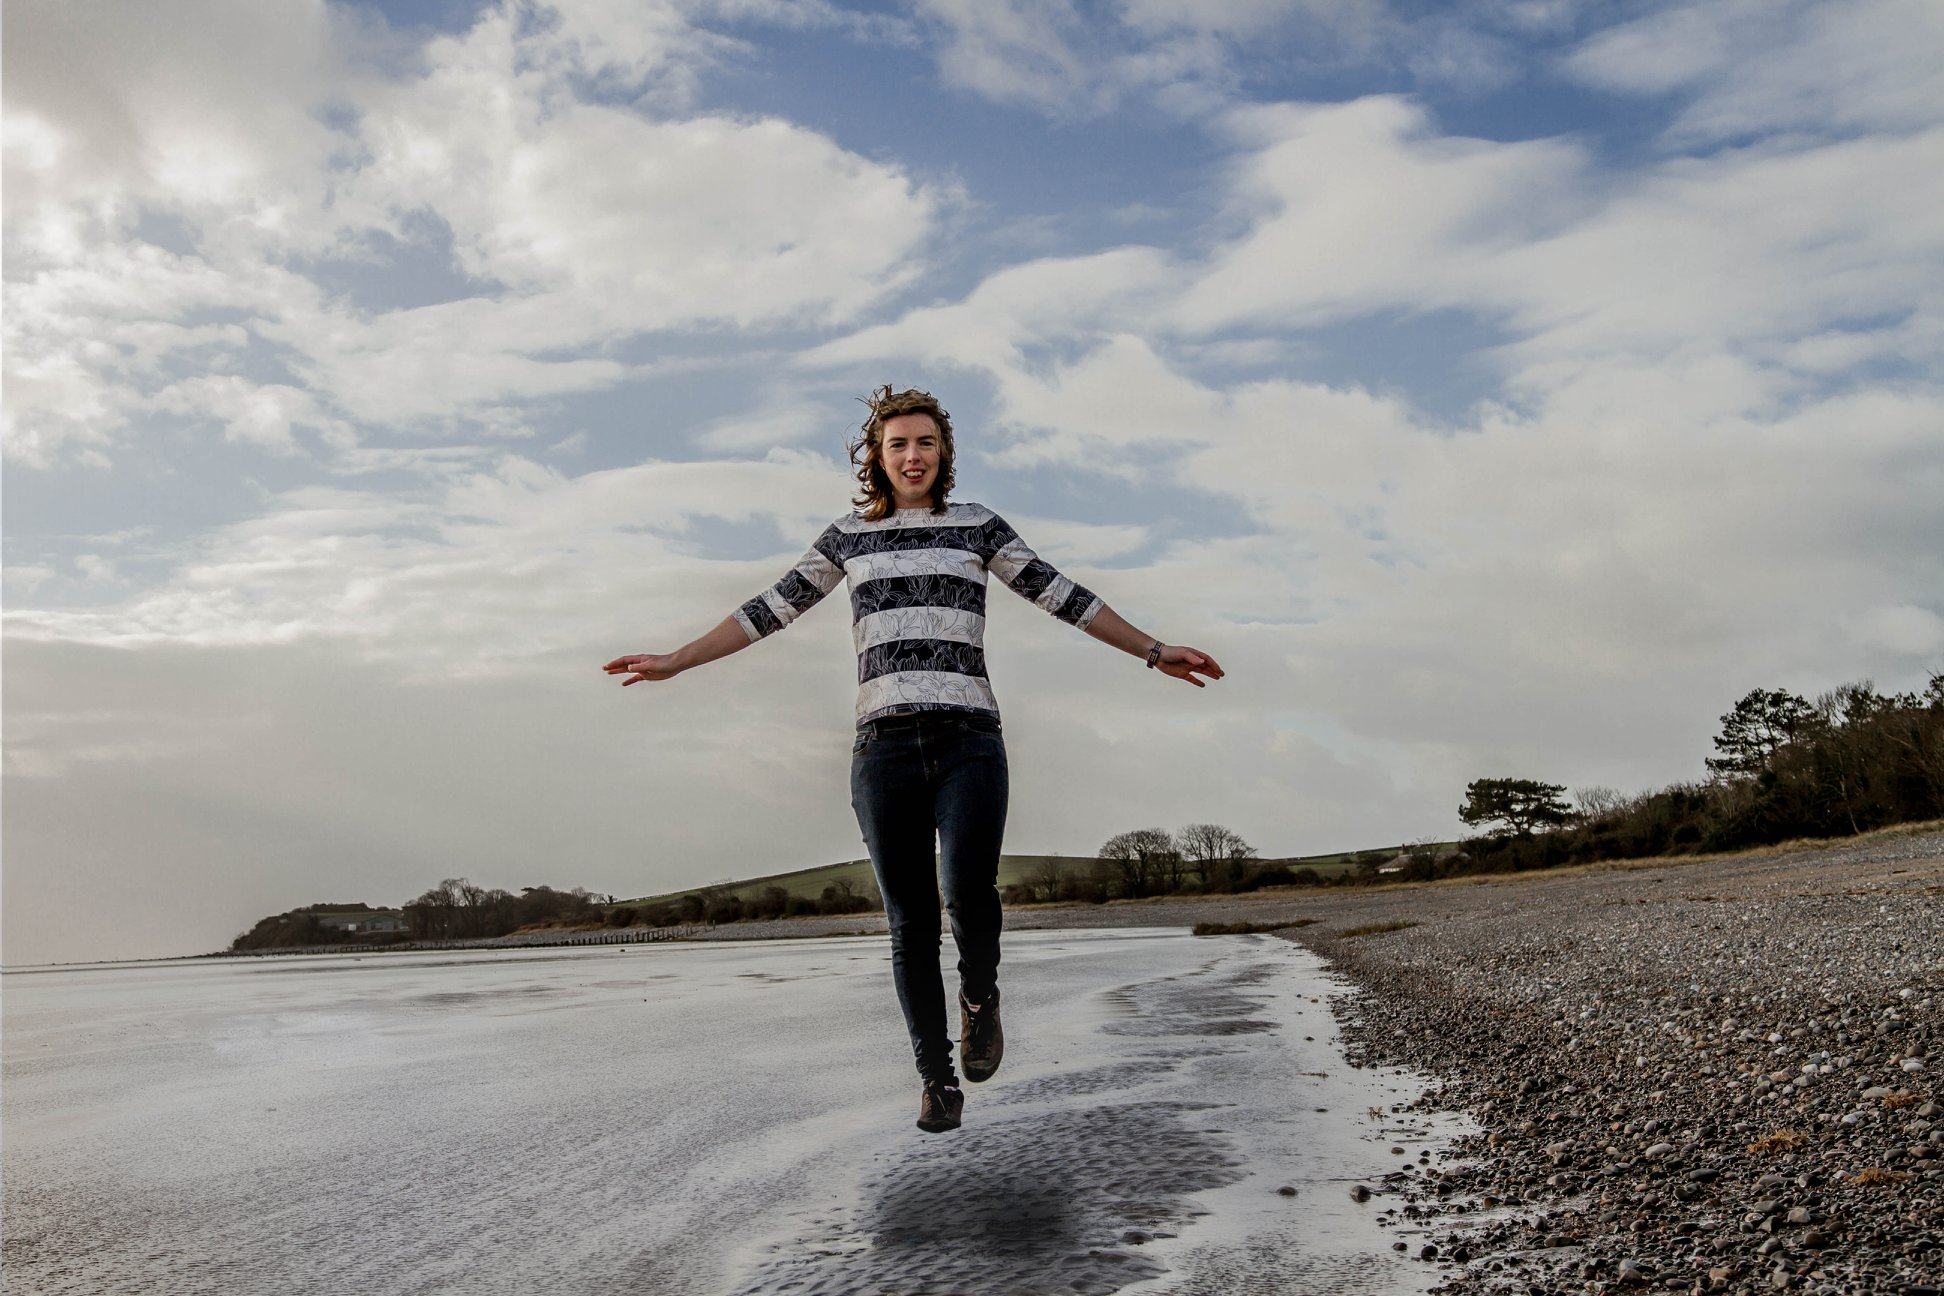
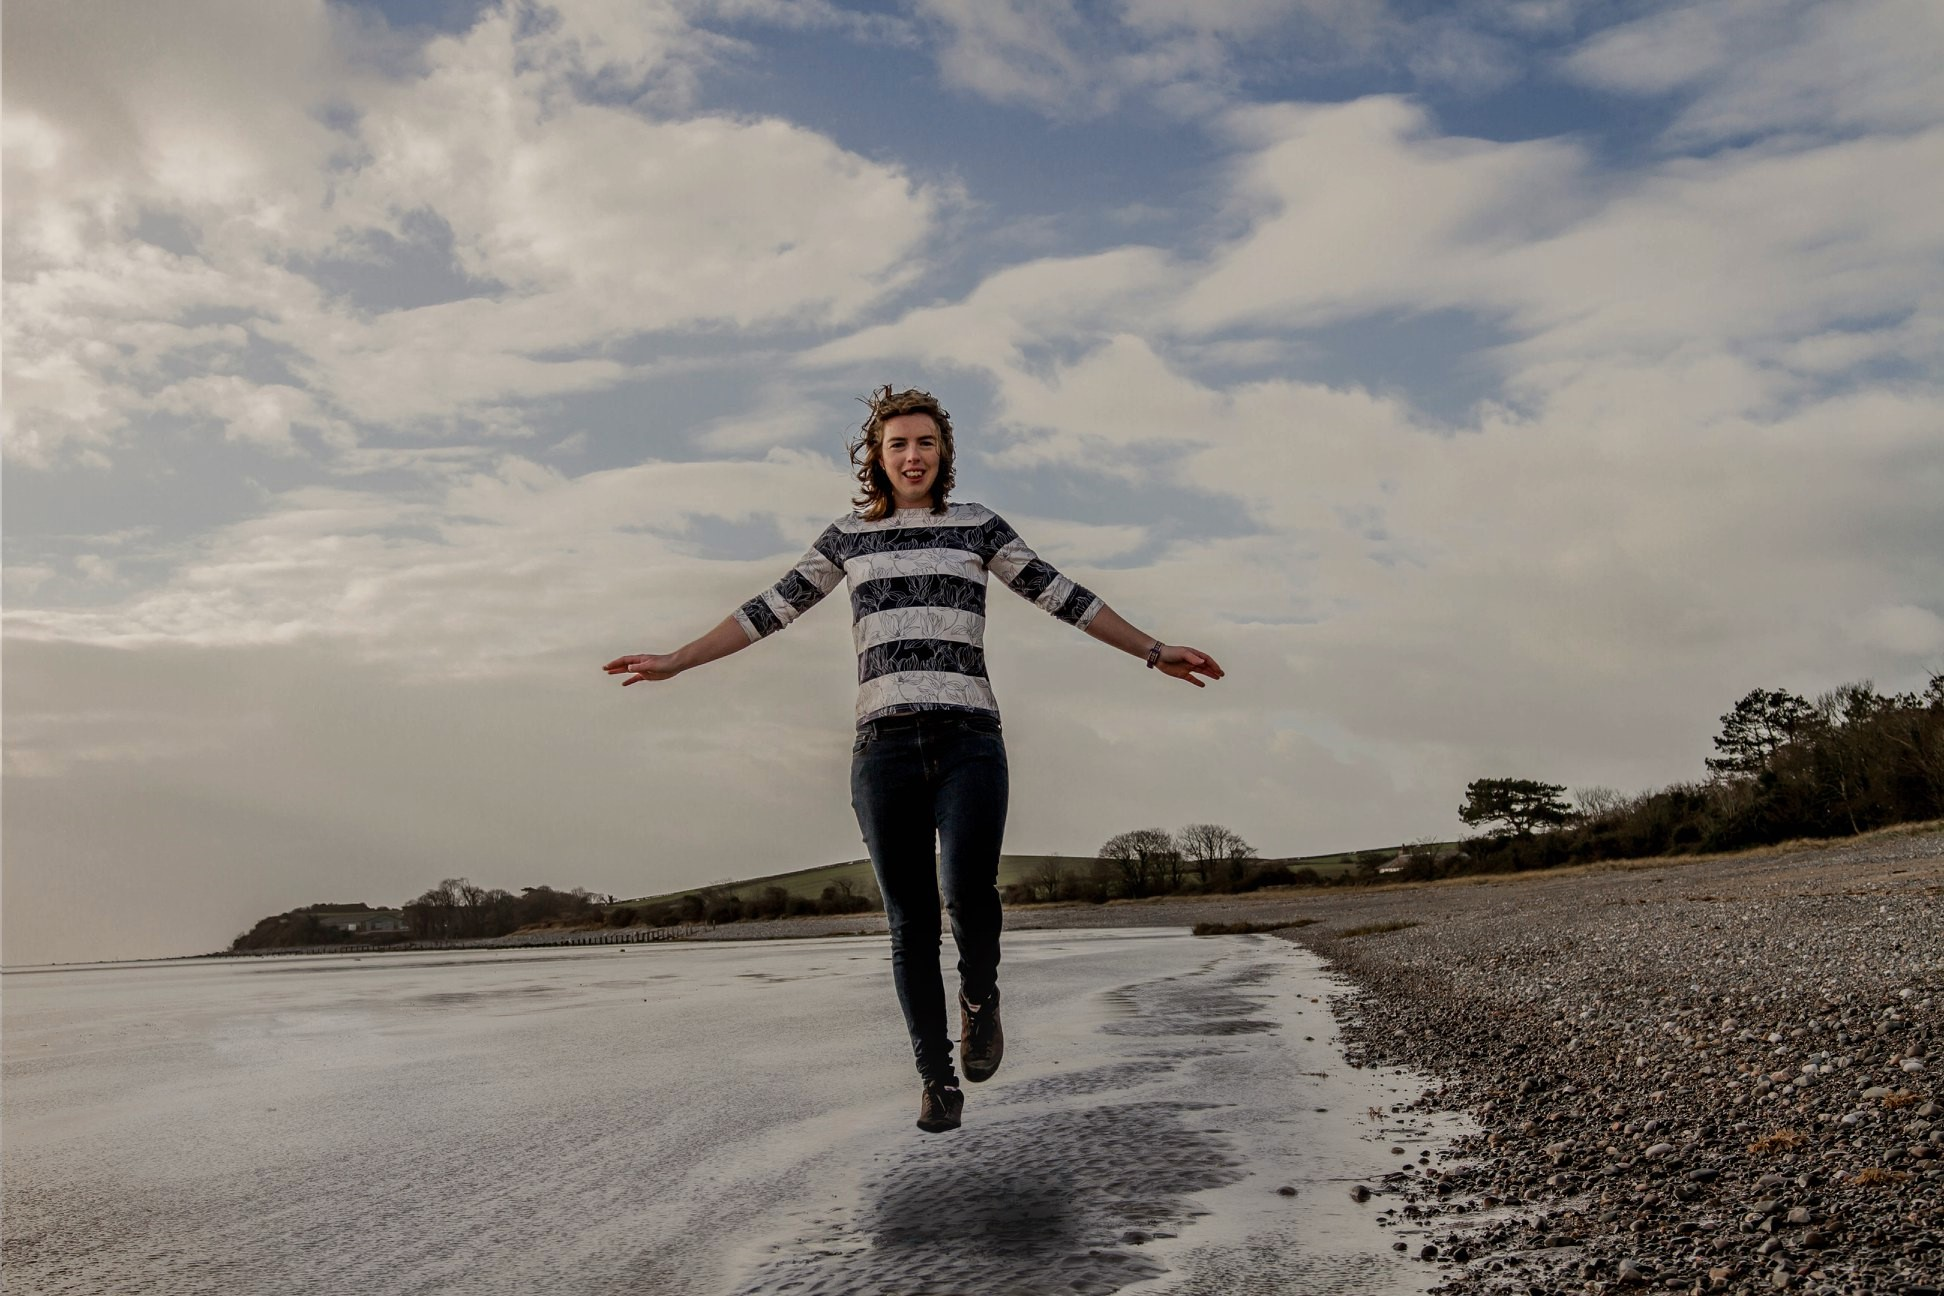
re-layed out hero image & fixed issue with sizing of image

diff --git a/assets/css/style.css b/assets/css/style.css
@@ -24,21 +24,24 @@
 .callout-container {
     height: 80vh;
     display: flex;
-    align-items: center;
-    justify-content: center;
+    align-items: flex-start;
+    justify-content: flex-end;
     position: relative;
+    padding-top: 60px;
+    padding-right: 60px;
 }
 
-#hero {
-    position: absolute;
-    height: 100%;
-    width: 100%;
-    top: 0px;
-    bottom: 0px;
-    left: 0px;
-    right: 0px;
-    overflow: hidden;
-}
+    #hero {
+        position: absolute;
+        height: 100%;
+        width: 100%;
+        top: 0px;
+        bottom: 0px;
+        left: 0px;
+        right: 0px;
+        object-fit: cover;
+        overflow: hidden;
+    }
 
     .callout {
         position: relative;
